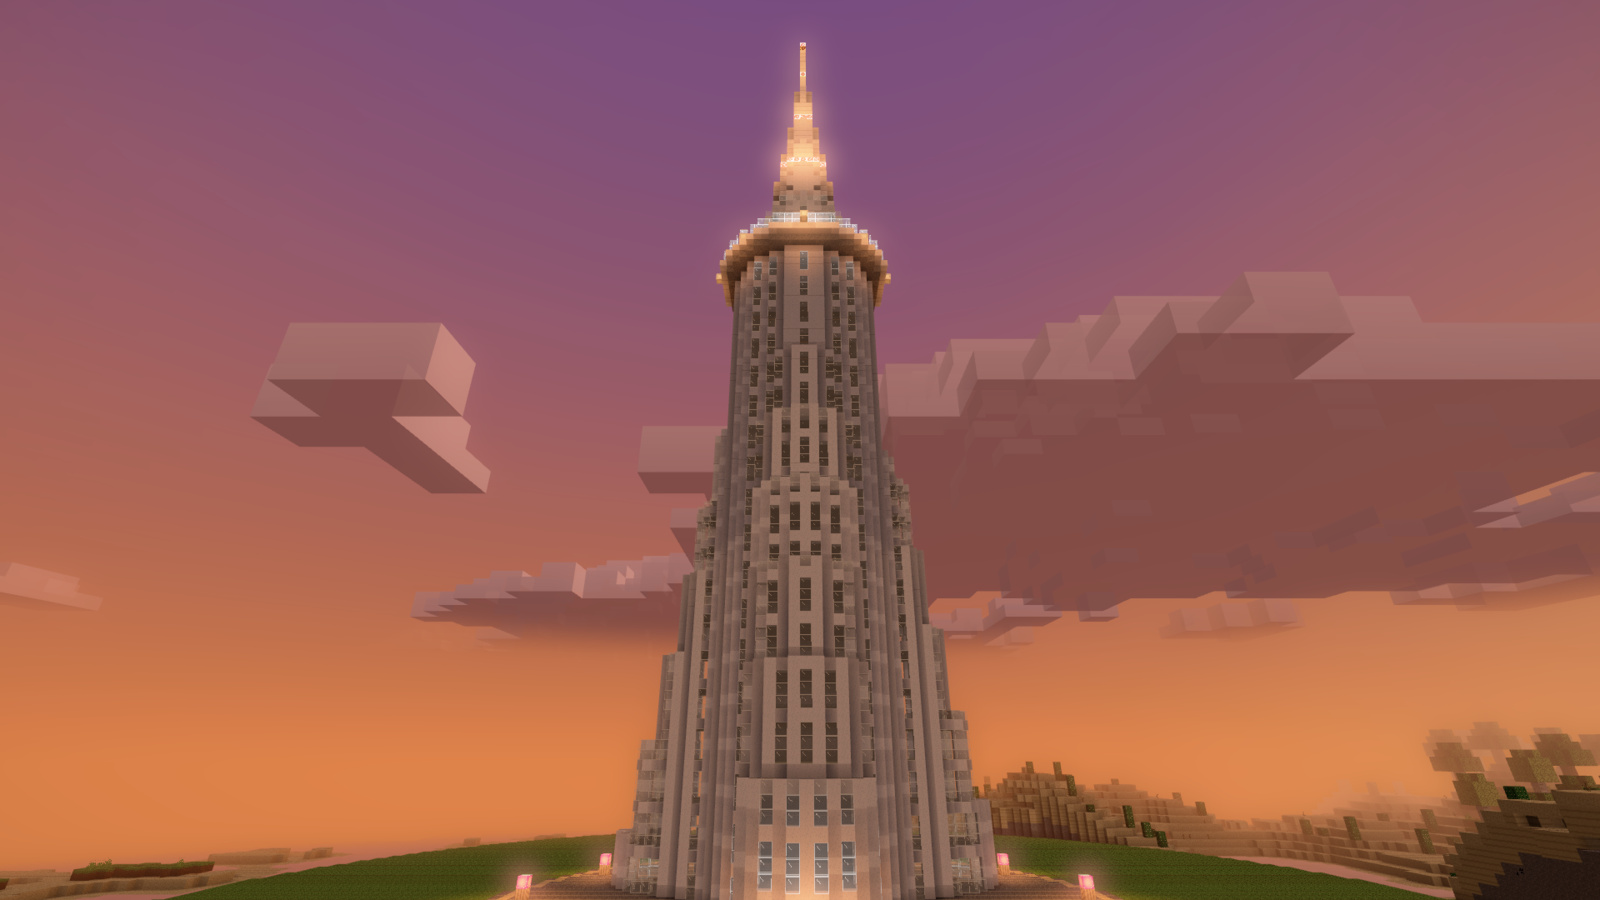
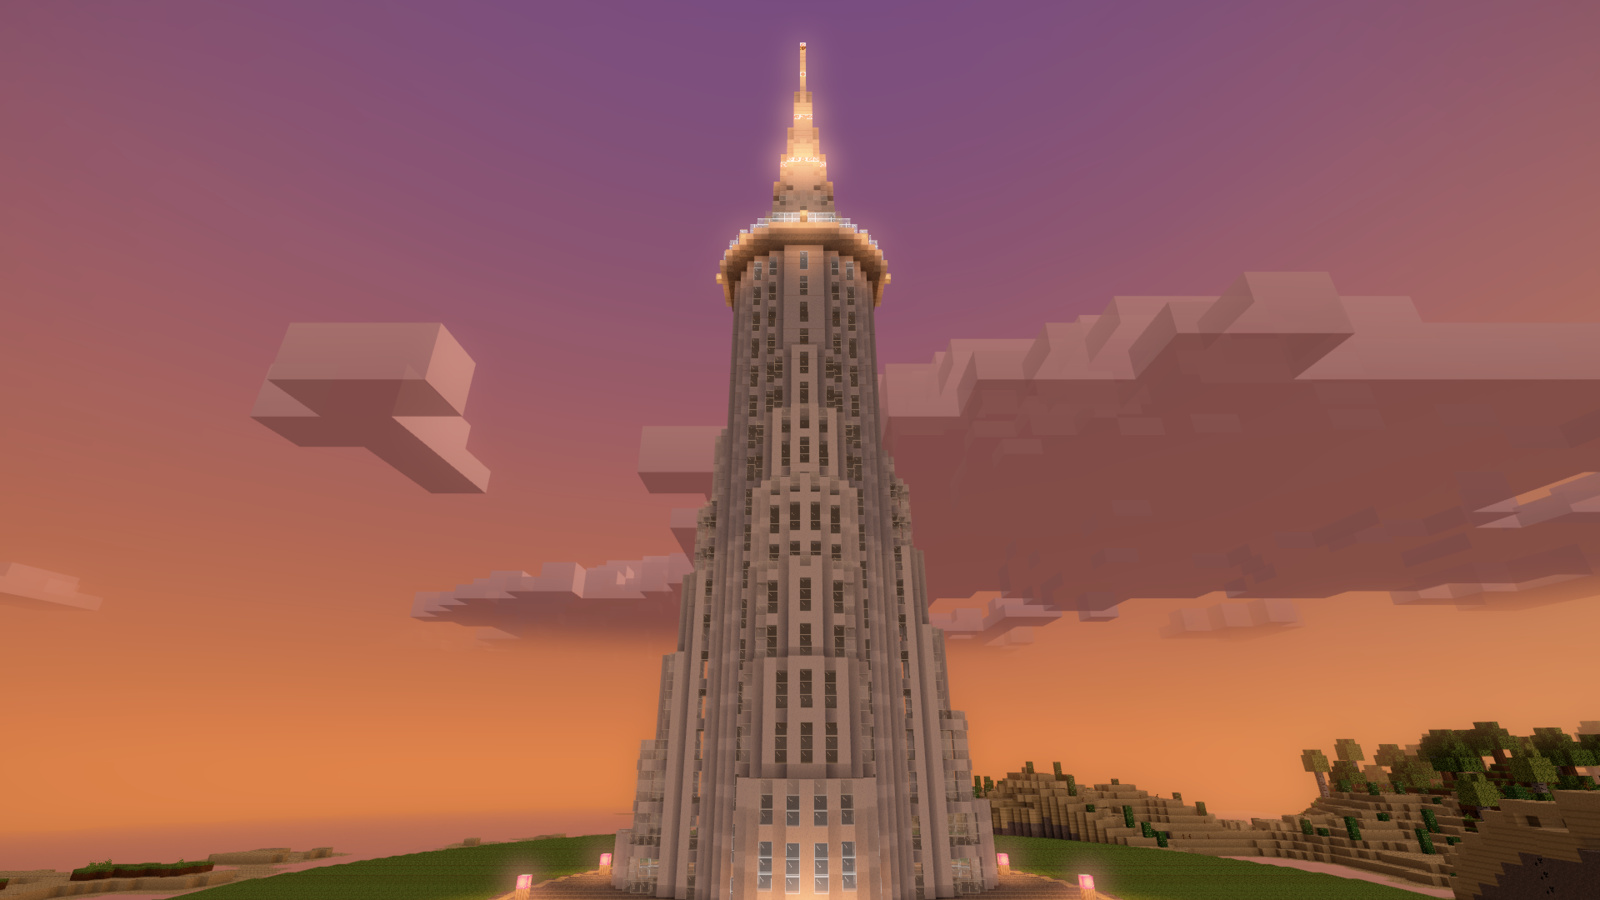
Gallery: twelve shots at full view distance, landmarks, the Moon and the mobs
Every shot now renders at 14 chunks, the farthest the game draws. Eight
new ones join the four that open the README, so the website gallery comes
from the same script. A capture that comes up occluded gets one retry.

Changed region(s): [[0.5938, 0.7778, 1.0, 0.9644], [0.0, 0.9022, 0.4062, 0.9956]]

diff --git a/README.md b/README.md
@@ -47,7 +47,7 @@ what `BLOCKHAVEN_SNAPSHOT_REGRADE` exists for.
 ### Taking your own
 
 ```
-Tools/gallery.sh                    # all four, about ten seconds
+Tools/gallery.sh                    # every shot, under a minute
 Tools/gallery.sh sundown
 ```
 
